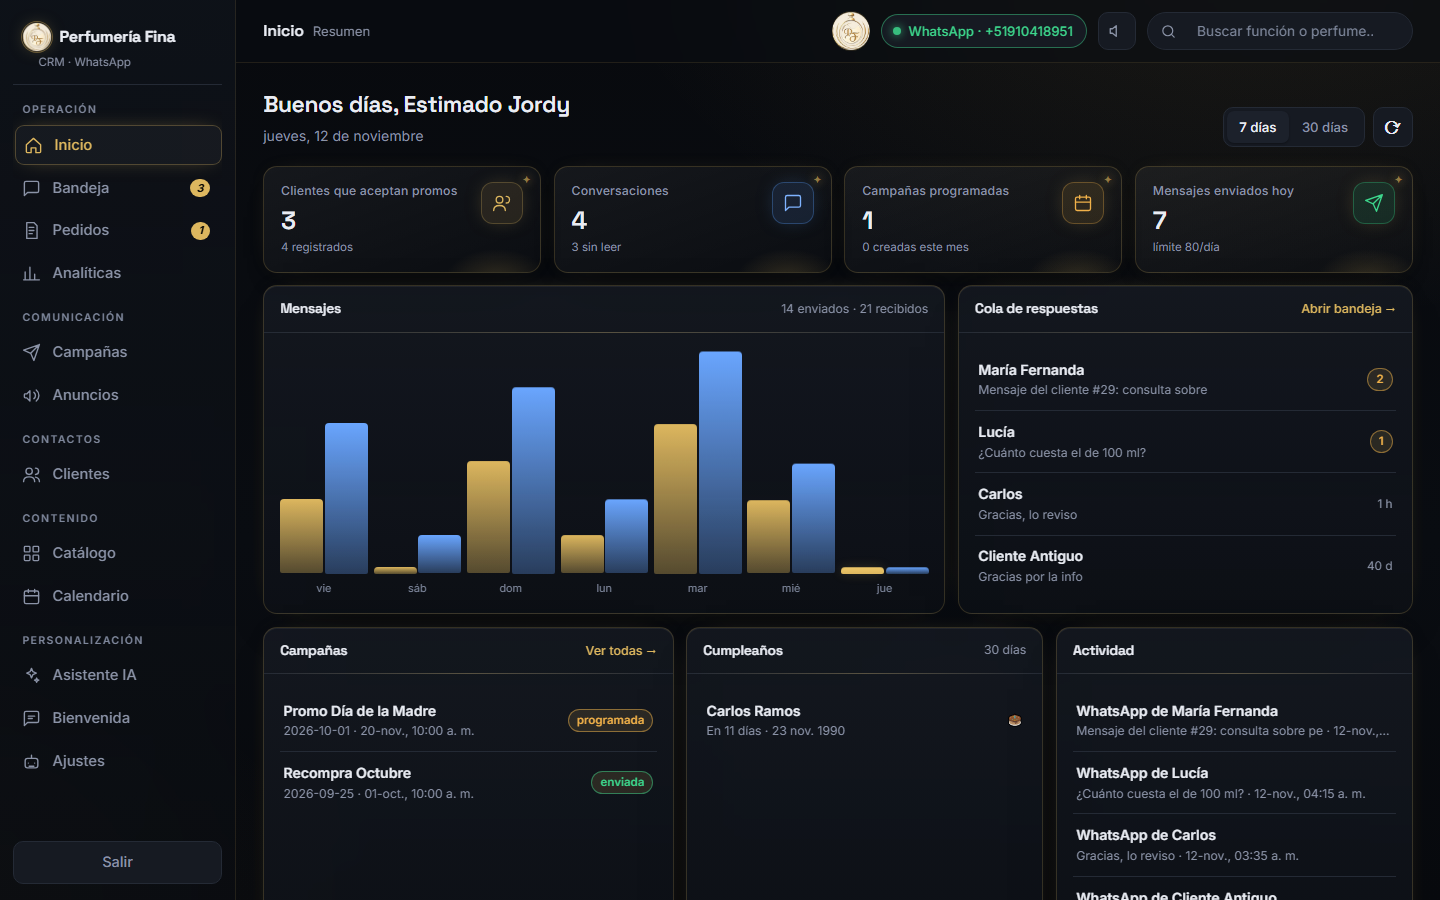
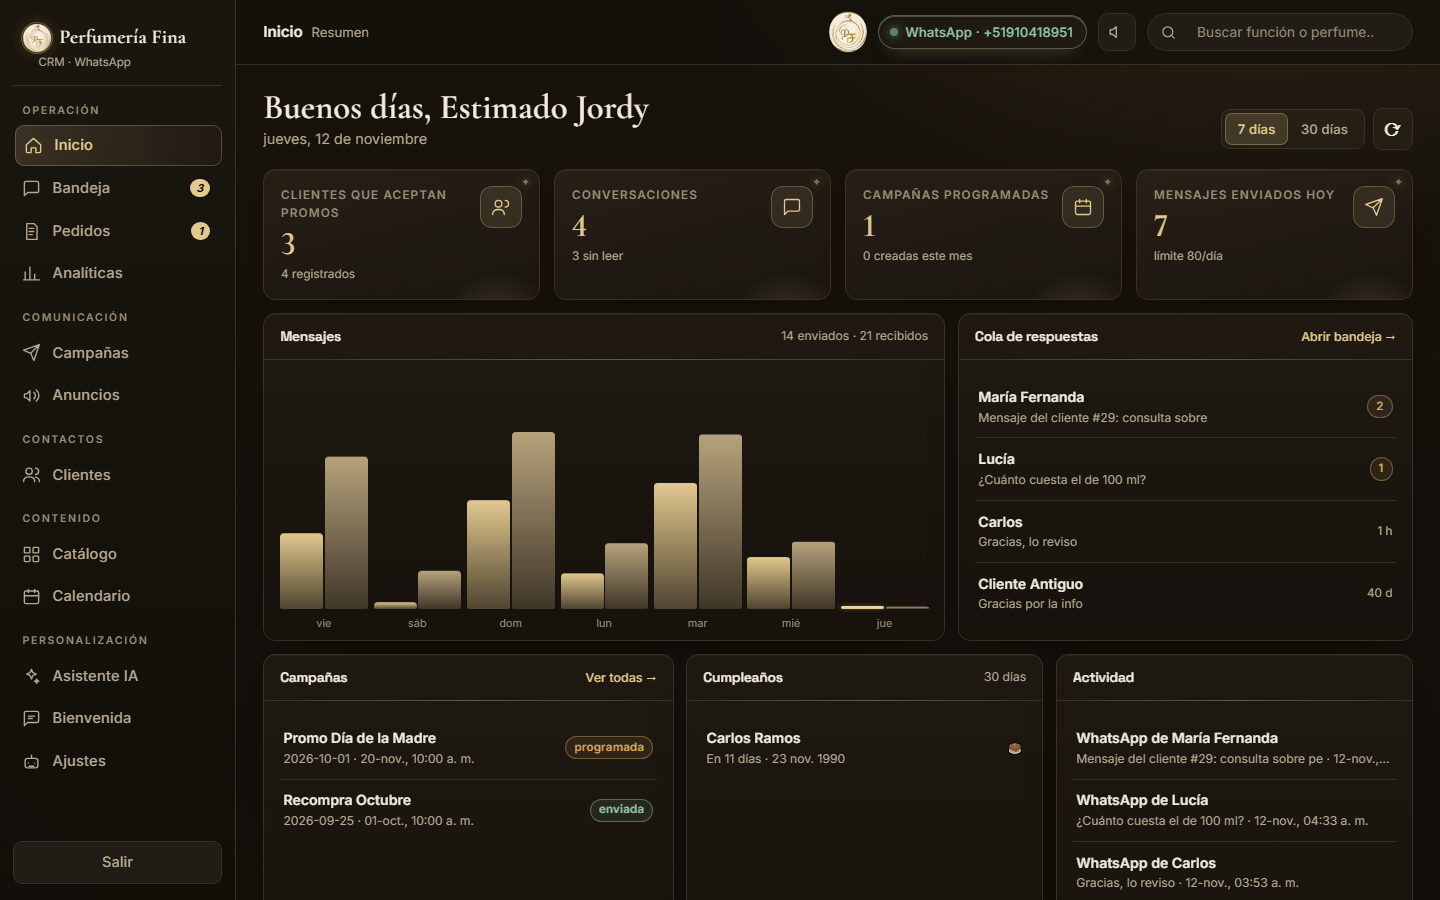
Progreso: parte 7 y cierre completados

diff --git a/docs/PROGRESO.md b/docs/PROGRESO.md
@@ -12,11 +12,16 @@
 | 4 · IA (ejemplos curados, respaldo ante fallo, evaluación) | ✅ | `22053d4` | 186/187 (1 fallo CRLF preexistente) |
 | 5 · Panel (filtros bandeja/pedidos, búsqueda persistente) | ✅ | `52f11fc` | e2e 20/20 · bot 231/232 (1 CRLF) |
 | 6 · Pendientes auditoría (T2, T3, T4, T5, T7, T8) | ✅ | `ad90f1b` | 231/232 (1 fallo CRLF preexistente) |
-| 7 · Rediseño dashboard (tokens, tipografía, capturas) | ⬜ | — | — |
-| Cierre (docs, tests finales, push, deploy, health) | ⬜ | — | — |
+| 7 · Rediseño dashboard (tokens, tipografía, capturas) | ✅ | `d4fa346` | e2e 20/20 · capturas 5 pantallas × 360/768/1280 |
+| Cierre (docs, tests finales, push, deploy, health) | ✅ | `0222300` (docs) | bot 231/232 (1 CRLF) · e2e 20/20 |
 
 ## Notas de la sesión
 
 - Base de producción antes de empezar: `GET /api/health` → `{"ok":true,"zombi":false}`.
 - `SUPABASE_DB_URL` no existe en el entorno: NO se ejecuta SQL; se deja `sql/EJECUTAR_ESTO.sql`.
 - Tag `pre-final` creado y subido antes de tocar código (punto de retorno).
+- Deploy temprano de las partes 1-3 a `master` verificado: `/api/health` OK (04:14 -05:00).
+- Partes 5 y 6 se integraron con revisión del Lead; Parte 6 (T2-T8) por subagente
+  con +45 tests nuevos.
+- Diseño verificado con capturas propias en `docs/capturas/` (5 pantallas × 3 anchos),
+  corrigiendo overflow horizontal, gráfico colapsado y cabecera del chat.
